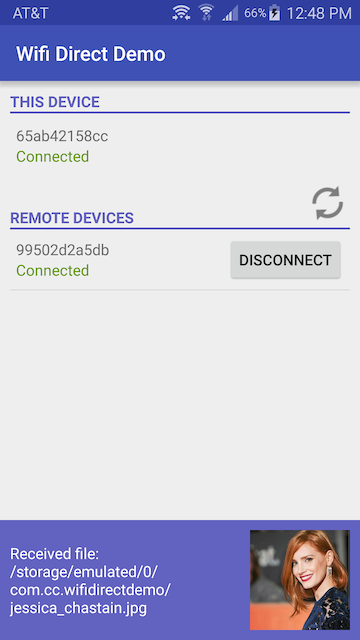
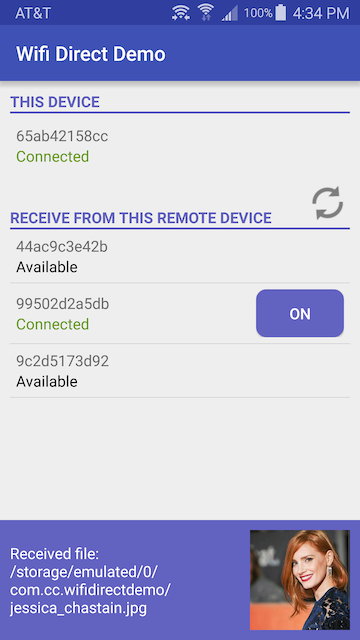
UI update

diff --git a/WifiDirectDemo/app/src/main/java/com/cc/wifidirectdemo/MainActivity.java b/WifiDirectDemo/app/src/main/java/com/cc/wifidirectdemo/MainActivity.java
@@ -86,6 +86,7 @@ public class MainActivity extends AppCompatActivity {
     private ServerSocket ipServerSocket;
 
     private View mStatusBar;
+    private TextView mRemoteDevicesTitle;
 
     public void setIsWifiP2pEnabled(boolean isWifiP2pEnabled) {
         this.isWifiP2pEnabled = isWifiP2pEnabled;
@@ -94,6 +95,17 @@ public class MainActivity extends AppCompatActivity {
     public void resetPeers() {
         peers.clear();
         mWiFiPeerListAdapter.notifyDataSetChanged();
+        updateRemoteDevicesTitle();
+    }
+
+    private void updateRemoteDevicesTitle() {
+        if (initiatedConnection) {
+            mRemoteDevicesTitle.setText("SEND TO THESE REMOTE DEVICES");
+        } else {
+            if (connected(peers)) {
+                mRemoteDevicesTitle.setText("RECEIVE FROM THIS REMOTE DEVICE");
+            }
+        }
     }
 
     public void resetDetailsData() {
@@ -167,6 +179,7 @@ public class MainActivity extends AppCompatActivity {
         setContentView(R.layout.activity_main);
 
         mStatusBar = findViewById(R.id.status_bar);
+        mRemoteDevicesTitle = (TextView) findViewById(R.id.remote_devices_title);
 
         mWifiP2pManager = (WifiP2pManager) getSystemService(Context.WIFI_P2P_SERVICE);
 
@@ -241,6 +254,8 @@ public class MainActivity extends AppCompatActivity {
                 }
 
                 mWiFiPeerListAdapter.notifyDataSetChanged();
+                updateRemoteDevicesTitle();
+
                 if (peers.size() == 0) {
                     Log.d("toto", "No peer devices found!");
                     return;
@@ -295,6 +310,16 @@ public class MainActivity extends AppCompatActivity {
                         ipSocketServerThread.start();
 
                     } else {
+
+                        if (info.isGroupOwner) {
+                            // this should not happen often - we did request to be
+                            // group owner, but just in case we'll have to try again
+
+                            Log.e("toto", "Receiver: requested NOT to be Group Owner, was not granted the request, so disconnect and have the user try again");
+
+                            disconnect();
+                            return;
+                        }
 
                         // Receiver
 
@@ -440,6 +465,8 @@ public class MainActivity extends AppCompatActivity {
         }
 
         receiversIPs.clear();
+
+        mRemoteDevicesTitle.setText("SEND TO THESE REMOTE DEVICES");
 
         discover();
     }

diff --git a/README.md b/README.md
@@ -1,20 +1,19 @@
 # wifidirectdemo
 
-The device that initiates the connection will be the sender, while the device that accepts the connection will be the receiver.
+This demo allows to send photos from one device (SENDER) to multiple devices (RECEIVERS) via Wifi Direct (i.e. no Wifi/LTE/4G connectivity needed).
 
-1. press DISCOVER on both devices
-2. on one device - the sender - press CONNECT in a row of remote devices - which will become the receiver 
-3. on receiver device accept connection
-4. on sender device press SEND PHOTO, pick photo using your favorite photo app
-5. the receiver device will receive the photo
-6. press DISCONNECT on any device
+1. To initiate sending photos turn ON the toggle for one remote device. At that point your device becomes the SENDER. You can continue turning ON toggels for other remote devices to send to multiple devices. 
+2. On the remote devices accept the connection thus turning them into RECEIVERS. 
+2. Click SEND PHOTO on the SENDER to send a photos to all RECEIVERS. 
+3. To stop receiving photos on the RECEIVER device turn toggle OFF.
+4. To stop sending photos to all RECEIVERS turn toggle OFF on the SENDER.
 
-Note that the photo filename is sent along as well so that it is preserved on the receiving device (see Receiver screenshot below). As a matter of fact 1kB worth of metadata (currently just the file name) is pre-pended to the photo byte array stream when sent and parsed on the receiving end.
+Note that the photo filename is sent along as well so that it is preserved on the receiving device (see RECEIVER screenshot below). As a matter of fact 1kB worth of metadata (currently just the file name) is pre-pended to the photo byte array stream when sent and parsed on the receiving end.
 
-Sender (initiates the connection):
+SENDER:
 
 ![Alt text](/sender.png?raw=true "initiates connection to send")
 
-Receiver (accepts the connection):
+RECEIVER:
 
 ![Alt text](/receiver.png?raw=true "accepts connection to receive")
